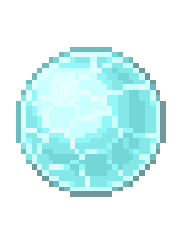
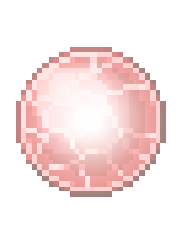
Finished implementing shield functionality and added 2 additional images to represent the shield's damage levels

diff --git a/Classes.js b/Classes.js
@@ -49,9 +49,9 @@ class Player {
 		};
 		this.defense = {
 			type: 'none',
-			isActive: false,
 			condition: 0,
 			img: undefined,
+			isActive: false,
 		};
 	}
 
@@ -172,15 +172,17 @@ class Player {
 		this.updateAnimation(instance.name);
 
 		if (instance.category === 'weapon') {
-			this[instance.category].type = instance.name;
-			this[instance.category].attackSpeed = instance.attackSpeed;
+			this.weapon.type = instance.name;
+			this.weapon.attackSpeed = instance.attackSpeed;
 		}
 		if (instance.category === 'defense') {
-			this[instance.category].type = instance.name;
-			this[instance.category].isActive = true;
-			this[instance.category].condition = 3;
-			this[instance.category].img = new Image();
-			this[instance.category].img.src = IMAGES.player.actives.shield;
+			this.defense.type = instance.name;
+			this.defense.condition = IMAGES.player.actives.shield.length;
+			this.defense.img = new Image();
+			this.defense.img.src = IMAGES.player.actives.shield[this.defense.condition - 1];
+			setTimeout(() => {
+				this.defense.isActive = true;
+			}, 800);
 		}
 	};
 
@@ -218,7 +220,19 @@ class Player {
 			STATE.currentItem.allowToDraw = false;
 			STATE.currentItem.instance = {};
 		} else if (target.type === 'meteor') {
-			this.getPushedBack(target.pushback);
+			if (this.defense.isActive) {
+				this.defense.condition--;
+				target.allowToDraw = false;
+
+				if (this.defense.condition > 0) {
+					this.defense.img.src = IMAGES.player.actives.shield[this.defense.condition - 1];
+				} else {
+					this.defense.type = 'none';
+					this.defense.condition = 0;
+					this.defense.img = undefined;
+					this.defense.isActive = false;
+				}
+			} else this.getPushedBack(target.pushback);
 		}
 	};
 }

diff --git a/main.js b/main.js
@@ -87,7 +87,11 @@ const IMAGES = {
 			'src/ship/items/shotgun/frame_08.png',
 		],
 		actives: {
-			shield: 'src/ship/actives/shield/frame_00.png',
+			shield: [
+				'src/ship/actives/shield/frame_00.png',
+				'src/ship/actives/shield/frame_01.png',
+				'src/ship/actives/shield/frame_02.png',
+			],
 		},
 	},
 	meteor: {
